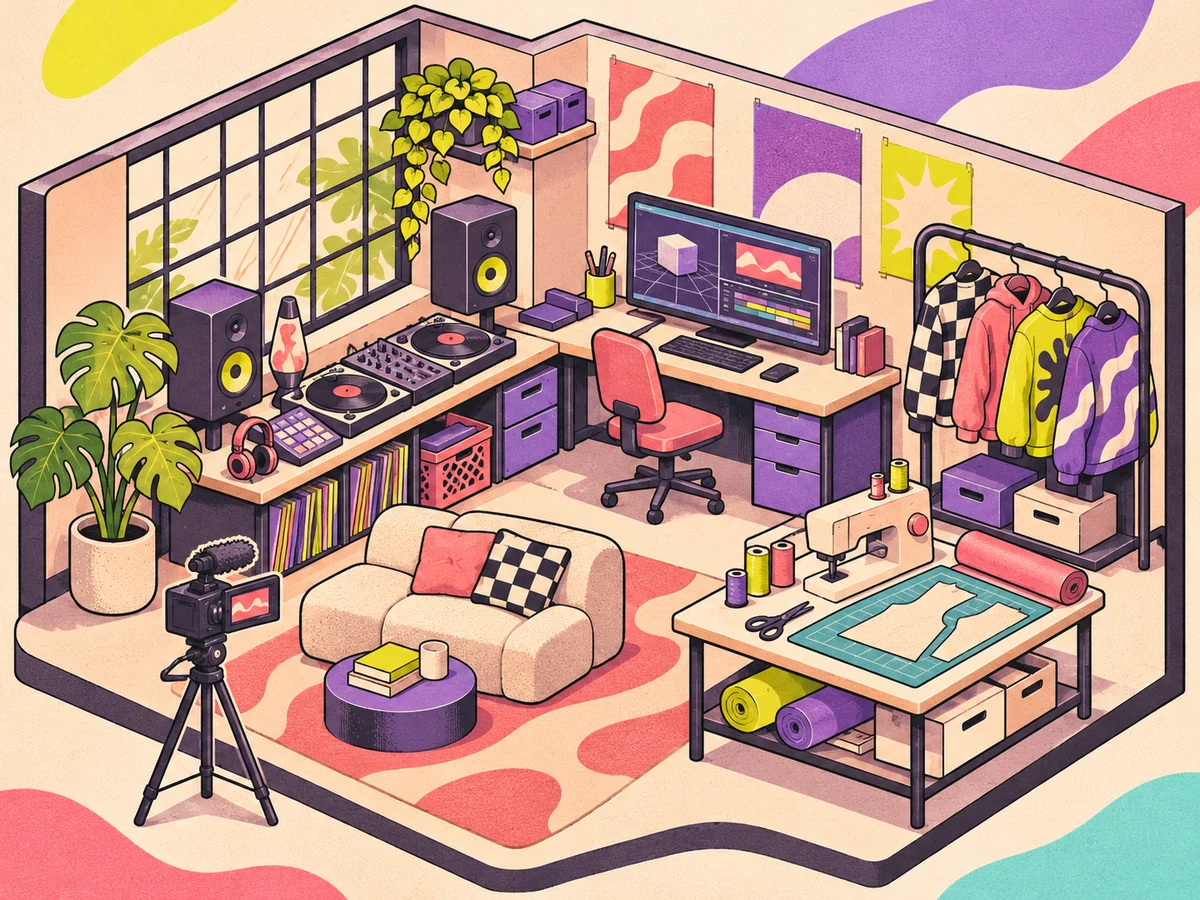
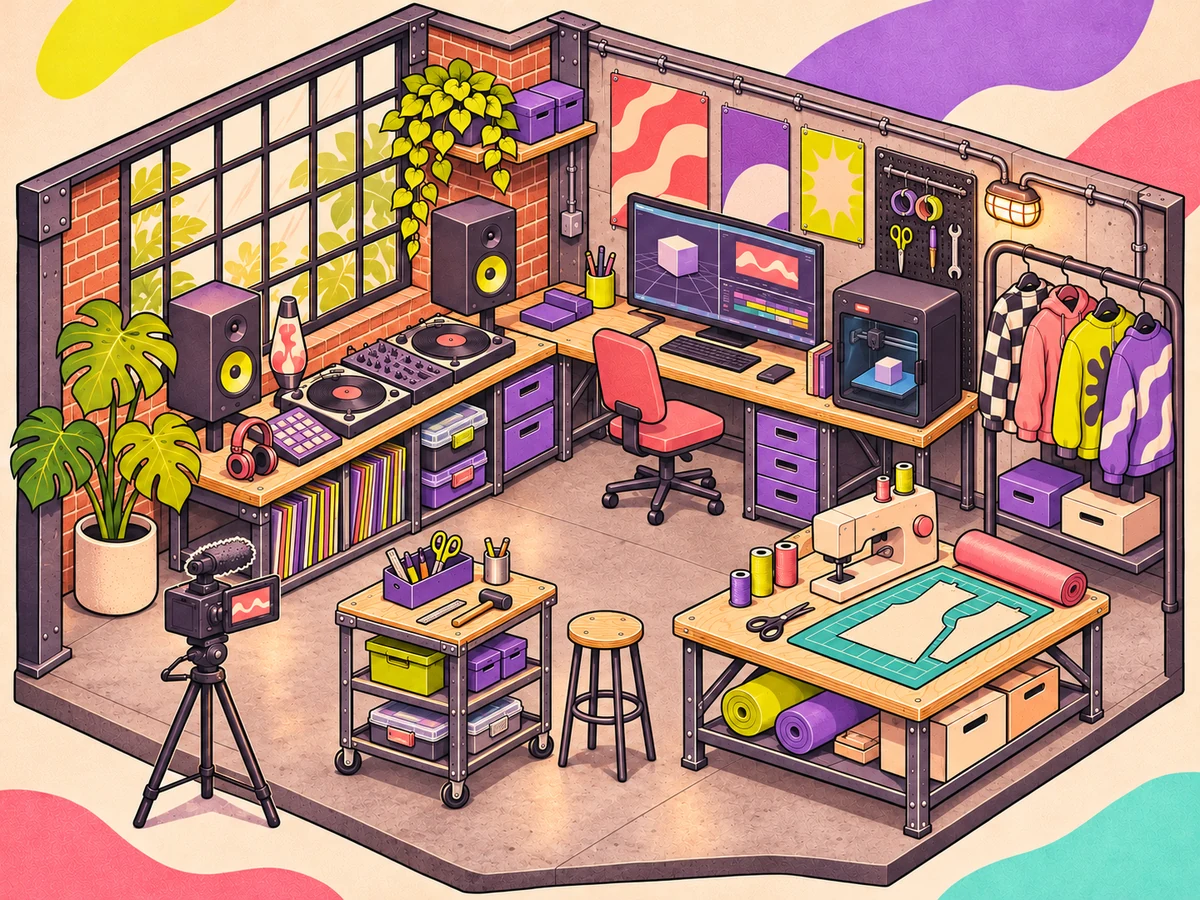
Give DANZ Passport a visible booklet and refresh the industrial studio cover

diff --git a/src/events/EventPassport.css b/src/events/EventPassport.css
@@ -1,23 +1,84 @@
-.passport-layout { display: grid; grid-template-columns: minmax(0, .85fr) minmax(0, 1.15fr); gap: 28px; align-items: start; }
-.passport-redeem { border: 1px solid var(--ink, #171717); padding: clamp(20px, 4vw, 34px); background: #eceee6; color: #171717; }
-.page-title.passport-title { font-size: clamp(54px, 8vw, 112px); }
-.passport-redeem h2, .passport-heading h2 { margin: 0 0 16px; font-size: clamp(24px, 3vw, 34px); letter-spacing: -.04em; }
-.passport-redeem p { line-height: 1.6; }
-.passport-redeem label { display: block; font-size: 12px; font-weight: 800; letter-spacing: .06em; margin: 24px 0 8px; }
-.passport-redeem input { width: 100%; min-width: 0; padding: 15px 12px; border: 1px solid #333; background: white; font: 700 16px monospace; text-transform: uppercase; border-radius: 0; }
-.passport-redeem .primary-btn { width: 100%; margin-top: 14px; white-space: normal; }
-.passport-message { padding: 12px; border-left: 3px solid #2f5742; background: white; font-size: 14px; overflow-wrap: anywhere; }
-.passport-heading { display: flex; flex-wrap: wrap; gap: 12px; align-items: start; justify-content: space-between; }
-.passport-heading .outline-btn { font-size: 11px; padding: 10px 12px; }
-.passport-stamps { display: grid; gap: 14px; list-style: none; padding: 0; margin: 0; }
-.passport-stamp { display: grid; grid-template-columns: 58px minmax(0, 1fr); gap: 16px; border: 1px solid #aaa; padding: 22px; }
-.passport-flower { font-size: 42px; align-self: start; }
-.passport-stamp h3 { margin: 0 0 10px; font-size: 22px; overflow-wrap: anywhere; }
-.passport-stamp p { font-size: 13px; line-height: 1.6; margin: 8px 0; }
-.passport-stamp .outline-btn { margin-top: 8px; }
-.passport-empty { border: 1px dashed #999; padding: 24px; line-height: 1.6; }
+.passport-page .page-lead { max-width: 700px; margin-bottom: 36px; }
+.page-title.passport-title { font-size: clamp(48px, 7vw, 100px); line-height: .94; }
+.passport-layout { display: grid; gap: 38px; max-width: 1160px; }
+.passport-book { display: grid; grid-template-columns: minmax(220px, .75fr) minmax(0, 2fr); align-items: stretch; padding: 8px; background: #202d28; border: 1px solid #557268; border-radius: 6px 20px 20px 6px; box-shadow: 0 22px 50px #0004; min-width: 0; }
+.passport-cover { position: relative; display: flex; flex-direction: column; align-items: center; justify-content: center; text-align: center; padding: 34px 25px; min-height: 470px; color: var(--acid); border: 1px solid #6a806149; border-radius: 3px 12px 12px 3px; background: repeating-linear-gradient(100deg, #fff0 0 2px, #ffffff02 2px 3px), #25392f; box-shadow: inset -12px 0 15px #0002, inset 3px 0 0 #ffffff08; }
+.passport-cover:before { content: ''; position: absolute; inset: 12px; border: 1px solid #c4d89140; border-radius: 2px 9px 9px 2px; pointer-events: none; }
+.passport-cover>img { width: min(100%, 205px); height: auto; }
+.passport-cover-edition { color: #d6dfb5; font-size: 8px; font-weight: 700; letter-spacing: .15em; margin-top: 14px; }
+.passport-cover-flower { width: 116px; height: 116px; margin: 38px 0 24px; filter: drop-shadow(0 2px 0 #0004); }
+.passport-cover h2 { font-size: clamp(23px, 2.3vw, 32px); letter-spacing: .07em; margin: 0; font-weight: 800; }
+.passport-cover p { font-size: 9px; line-height: 1.6; letter-spacing: .16em; color: #d6dfb5; margin: 18px 0 28px; }
+.passport-cover-count { display: flex; align-items: center; justify-content: center; gap: 13px; margin-top: auto; border-top: 1px solid #c4d89140; padding-top: 20px; width: 100%; font-size: 8px; font-weight: 800; letter-spacing: .12em; }
+.passport-cover-count strong { font-size: 30px; line-height: 1; font-variant-numeric: tabular-nums; }
+.passport-paper { display: flex; flex-direction: column; min-width: 0; padding: clamp(22px, 3.4vw, 44px); color: #283a35; background: linear-gradient(90deg, #d9d3c0, #f3f0e8 5%, #f3f0e8 96%, #e0dbcb); border-radius: 2px 12px 12px 2px; border-right: 4px double #c2baa7; }
+.passport-page-index { display: flex; align-items: center; justify-content: space-between; border-bottom: 1px solid #b4bbab; padding-bottom: 16px; margin-bottom: 24px; font-size: 9px; font-weight: 800; letter-spacing: .13em; }
+.passport-page-index svg { width: 24px; height: 24px; color: #668778; }
+.passport-heading { display: flex; flex-wrap: wrap; gap: 12px; align-items: center; justify-content: space-between; margin-bottom: 22px; }
+.passport-heading h2 { margin: 0; font-size: clamp(24px, 3vw, 34px); letter-spacing: -.045em; }
+.passport-paper .outline-btn { color: #283a35; border-color: #718177; font-size: 10px; padding: 11px 12px; letter-spacing: .04em; }
+.passport-paper .outline-btn:hover { background: #dde3d4; border-color: #283a35; }
+.passport-heading .outline-btn { font-size: 9px; }
+.passport-empty { margin: 0; padding: 24px 8px; line-height: 1.6; font-size: 14px; text-align: center; }
+.passport-empty p { max-width: 35ch; margin: 22px auto; }
+.passport-next-stamp { display: flex; width: 138px; height: 138px; margin: 0 auto; border: 2px dashed #7f978373; border-radius: 50%; flex-direction: column; align-items: center; justify-content: center; color: #738b7d; transform: rotate(-10deg); font-size: 10px; font-weight: 800; letter-spacing: .1em; line-height: 1.35; }
+.passport-next-stamp svg { width: 40px; height: 40px; margin-bottom: 8px; }
+.passport-stamps { display: grid; grid-template-columns: repeat(2, minmax(0, 1fr)); gap: 28px 22px; list-style: none; padding: 0; margin: 0; }
+.passport-stamp { --stamp-ink: #2f685e; min-width: 0; border-bottom: 1px solid #bbc2b4; padding-bottom: 22px; }
+.passport-stamp[data-ink='1'] { --stamp-ink: #7c4771; }
+.passport-stamp[data-ink='2'] { --stamp-ink: #9a4f3b; }
+.passport-ink-stamp { display: flex; flex-direction: column; align-items: center; justify-content: center; width: 114px; height: 114px; margin: 4px auto 22px; border: 3px double var(--stamp-ink); outline: 1px solid var(--stamp-ink); outline-offset: 3px; border-radius: 50%; color: var(--stamp-ink); transform: rotate(-9deg); opacity: .9; }
+.passport-stamp[data-ink='1'] .passport-ink-stamp { transform: rotate(8deg); }
+.passport-ink-stamp span { font: 800 8px monospace; letter-spacing: .06em; }
+.passport-ink-stamp svg { width: 48px; height: 48px; margin: 7px 0; }
+.passport-stamp h3 { margin: 0 0 10px; font-size: 19px; line-height: 1.15; letter-spacing: -.035em; color: var(--stamp-ink); overflow-wrap: anywhere; }
+.passport-stamp p { font-size: 11px; line-height: 1.6; margin: 8px 0; overflow-wrap: anywhere; }
+.passport-stamp .passport-confirmed { font-size: 8px; font-weight: 800; letter-spacing: .06em; color: var(--stamp-ink); }
+.passport-stamp .outline-btn { width: 100%; margin-top: 7px; }
+.passport-paper-foot { margin-top: auto; padding-top: 30px; display: flex; justify-content: space-between; flex-wrap: wrap; gap: 10px; color: #607468; font-size: 8px; font-weight: 700; letter-spacing: .07em; }
+.passport-redeem { padding: clamp(22px, 3vw, 34px); border: 1px solid var(--line); background: #191d1b; color: var(--white); }
+.passport-redeem-intro { display: flex; align-items: start; gap: 22px; max-width: 680px; }
+.passport-redeem-number { font-size: 54px; font-weight: 300; color: var(--acid); line-height: 1; }
+.passport-redeem h2 { margin: 0 0 12px; font-size: clamp(24px, 3vw, 32px); letter-spacing: -.04em; }
+.passport-redeem p { line-height: 1.6; color: #c9cbc1; font-size: 14px; }
+.passport-redeem form { max-width: 610px; }
+.passport-redeem label { display: block; font-size: 11px; font-weight: 800; letter-spacing: .08em; margin: 24px 0 10px; }
+.passport-redeem input { width: 100%; min-width: 0; padding: 15px 12px; border: 1px solid #606c64; background: #101411; color: var(--white); font: 700 16px monospace; text-transform: uppercase; border-radius: 0; }
+.passport-redeem .primary-btn { width: 100%; max-width: 610px; margin-top: 14px; white-space: normal; }
+.passport-redeem>.outline-btn { margin: 16px 12px 0 0; }
+.passport-message { padding: 14px 18px; border-left: 3px solid #6e9c7c; background: #e1eadb; color: #203b2a; font-size: 14px; overflow-wrap: anywhere; }
+.passport-redeem .passport-message { color: #203b2a; }
+.passport-link-status { max-width: 1160px; margin-bottom: 24px; }
 .pending-pass-banner { display: flex; align-items: center; justify-content: space-between; flex-wrap: wrap; gap: 12px; border-bottom: 1px solid #bbb; padding-block: 16px; font-size: 14px; }
 .pending-pass-banner .outline-btn { font-size: 11px; padding: 10px 14px; }
+@media (max-width: 760px) {
+  .passport-book { grid-template-columns: minmax(155px, .65fr) minmax(0, 1fr); }
+  .passport-cover { padding: 30px 18px; min-height: 420px; }
+  .passport-cover h2 { font-size: 20px; }
+  .passport-cover-flower { width: 80px; height: 80px; }
+  .passport-stamps { grid-template-columns: 1fr; }
+  .passport-cover-count { flex-direction: column; }
+}
+@media (max-width: 560px) {
+  .passport-book { grid-template-columns: minmax(0, 1fr); gap: 8px; padding: 6px; border-radius: 7px 16px 16px 7px; }
+  .passport-cover { display: grid; grid-template-columns: 1fr 86px; gap: 10px 16px; min-height: 218px; padding: 28px 26px; text-align: left; justify-items: start; }
+  .passport-cover>img { width: 178px; grid-column: 1; }
+  .passport-cover-edition { grid-column: 1; font-size: 6px; letter-spacing: .1em; margin-top: 0; }
+  .passport-cover-flower { grid-column: 2; grid-row: 1 / span 4; align-self: center; margin: 0; width: 80px; height: 80px; }
+  .passport-cover h2 { grid-column: 1; font-size: clamp(19px, 5vw, 25px); margin-top: 9px; }
+  .passport-cover p { display: none; }
+  .passport-cover-count { grid-column: 1 / -1; flex-direction: row; justify-content: start; padding-top: 14px; font-size: 7px; }
+  .passport-cover-count strong { font-size: 24px; }
+  .passport-paper { padding: 24px 22px; min-height: 340px; }
+  .passport-stamps { grid-template-columns: repeat(2, minmax(0, 1fr)); gap: 24px 16px; }
+  .passport-ink-stamp { width: 94px; height: 94px; }
+  .passport-ink-stamp span { font-size: 6px; }
+  .passport-ink-stamp svg { width: 40px; height: 40px; }
+  .passport-stamp h3 { font-size: 17px; }
+  .passport-stamp .outline-btn { font-size: 8px; padding: 11px 5px; }
+  .passport-redeem-intro { gap: 14px; }
+}
+@media (max-width: 360px) { .passport-cover { grid-template-columns: 1fr 54px; padding-inline: 22px; } .passport-cover-flower { width: 54px; height: 54px; } .passport-stamps { grid-template-columns: 1fr; } }
 .passport-receipt { max-width: 720px; margin: 0 auto; padding: clamp(20px, 4vw, 42px); border: 1px solid #4b4b4c; background: #19191a; }
 .passport-receipt-mark { display: block; color: var(--acid, #f3f0e8); width: 48px; height: 48px; margin: 25px 0 22px; }
 .passport-receipt h1 { margin: 0 0 18px; font-size: clamp(44px, 7vw, 82px); line-height: .96; letter-spacing: -.055em; }

diff --git a/src/events/EventPassport.tsx b/src/events/EventPassport.tsx
@@ -8,6 +8,7 @@ import './EventPassport.css'
 
 type Stamp = Database['public']['Functions']['danz_my_passport']['Returns'][number]
 type Props = {
+  arrival: boolean
   client: SupabaseClient<Database> | null
   userId: string | null
   authLoading: boolean
@@ -27,7 +28,7 @@ function date(value: string | null) {
   return Number.isNaN(parsed.valueOf()) ? '' : parsed.toLocaleDateString('es-ES', { dateStyle: 'medium' })
 }
 
-export default function EventPassport({ client, userId, authLoading, pendingPass, pendingCount, redemption, launchIssue, onPendingPass, onSignIn, onContinue, onGallery }: Props) {
+export default function EventPassport({ arrival, client, userId, authLoading, pendingPass, pendingCount, redemption, launchIssue, onPendingPass, onSignIn, onContinue, onGallery }: Props) {
   const [code, setCode] = useState(pendingPass ?? '')
   const [message, setMessage] = useState<string | null>(launchIssue)
   const busy = redemption.busy
@@ -95,7 +96,7 @@ export default function EventPassport({ client, userId, authLoading, pendingPass
   // A QR is saved at launch. Guests can leave immediately without waiting for
   // Auth, installing the PWA, or submitting the same code a second time.
   const savedForLater = !userId && Boolean(pendingPass) && !launchIssue && readPendingPass() === pendingPass
-  if (savedForLater) return <section className="passport-receipt" aria-labelledby="saved-pass-title">
+  if (arrival && savedForLater) return <section className="passport-receipt" aria-labelledby="saved-pass-title">
     <div className="eyebrow">DANZ COLLECTIVE / TU NOCHE</div>
     <svg className="passport-receipt-mark" viewBox="0 0 48 48" aria-hidden="true"><circle cx="24" cy="24" r="21" fill="none" stroke="currentColor" strokeWidth="2" /><path d="m14 24 7 7 14-15" fill="none" stroke="currentColor" strokeWidth="3" /></svg>
     <h1 id="saved-pass-title">PASE<br /><em>GUARDADO.</em></h1>
@@ -119,37 +120,50 @@ export default function EventPassport({ client, userId, authLoading, pendingPass
   </section>
 
   const items = !authLoading && passport.owner === userId ? passport.items : []
+  const stampsReady = Boolean(userId && !authLoading && passport.owner === userId && !passport.loading && !passport.error)
   return <>
     <div className="eyebrow">DANZ COLLECTIVE / TU PASAPORTE</div>
     <h1 className="page-title passport-title">CADA NOCHE,<br /><em>UN SELLO.</em></h1>
-    <p className="page-lead">Escanea el QR del evento con la cámara de tu móvil o introduce su código. Tu sello se guarda en tu cuenta y abre la galería de esa noche.</p>
+    <p className="page-lead">Tu colección de noches. Cada sello guarda una fiesta y la llave para volver a sus fotos.</p>
+    {redemption.message && <p className="passport-message passport-link-status" role="status">{redemption.message}</p>}
     <div className="passport-layout">
+      <div className="passport-book" aria-label="Pasaporte DANZ: portada y páginas de sellos">
+        <aside className="passport-cover" aria-label="Portada del pasaporte">
+          <img src="/brand/danz-collective-wordmark.png" alt="Danz Collective" width="225" height="32" />
+          <span className="passport-cover-edition">MUSIC · PEOPLE · CULTURE</span>
+          <DanzFlower className="passport-cover-flower" />
+          <h2>PASAPORTE</h2>
+          <p>NOCHES QUE<br />SE QUEDAN CONTIGO.</p>
+          <div className="passport-cover-count">{stampsReady ? <><strong>{String(items.length).padStart(2, '0')}</strong><span>{items.length === 1 ? 'NOCHE GUARDADA' : 'NOCHES GUARDADAS'}</span></> : <span>TU HISTORIA EN DANZ</span>}</div>
+        </aside>
+        <section className="passport-paper" aria-labelledby="passport-title">
+          <div className="passport-page-index"><span>REGISTRO DE NOCHES</span><DanzFlower /></div>
+          <div className="passport-heading"><h2 id="passport-title">Mis sellos {stampsReady ? `(${items.length})` : ''}</h2>
+            {userId && <button type="button" className="outline-btn" onClick={() => setRetry(value => value + 1)} disabled={authLoading || passport.loading}>ACTUALIZAR SELLOS</button>}
+          </div>
+          {!userId && <div className="passport-empty"><span className="passport-next-stamp" aria-hidden="true"><DanzFlower /><span>TU PRÓXIMA<br />NOCHE</span></span><p>Inicia sesión para ver los sellos que ya has guardado.</p>{!authLoading && client && <button className="outline-btn" type="button" onClick={requestSignIn}>ABRIR MI PASAPORTE</button>}</div>}
+          {userId && (authLoading || passport.loading) && <p role="status">Cargando tu pasaporte…</p>}
+          {userId && !authLoading && passport.error && <p className="passport-empty" role="status">No hemos podido cargar tus sellos. Pulsa «Actualizar sellos» para volver a intentarlo.</p>}
+          {stampsReady && items.length === 0 && <div className="passport-empty"><span className="passport-next-stamp" aria-hidden="true"><DanzFlower /><span>TU PRÓXIMA<br />NOCHE</span></span><p>Tu primera noche empieza aquí. Añade el código de un evento para estrenar tu pasaporte.</p></div>}
+          <ul className="passport-stamps">{items.map((stamp, index) => <li key={stamp.event_id} className="passport-stamp" data-ink={index % 3}>
+            <div className="passport-ink-stamp" aria-hidden="true"><span>DANZ COLLECTIVE</span><DanzFlower /><span>ASISTENCIA</span></div>
+            <div className="passport-stamp-copy"><h3>{stamp.title}</h3><p>{date(stamp.starts_at) || 'Evento DANZ'} · Sello del {date(stamp.granted_at)}</p><p className="passport-confirmed">ASISTENCIA GUARDADA</p>
+              {['published', 'archived'].includes(stamp.event_status) ? <button type="button" className="outline-btn" onClick={() => onGallery(stamp.event_id)}>ABRIR GALERÍA ↗</button> : <p>El sello se conserva. La galería no está publicada ahora.</p>}
+            </div>
+          </li>)}</ul>
+          <div className="passport-paper-foot"><span>TUS NOCHES. TUS RECUERDOS.</span><span aria-hidden="true">DANZ / PASSPORT</span></div>
+        </section>
+      </div>
       <section className="passport-redeem" aria-labelledby="redeem-title">
-        <h2 id="redeem-title">Guarda tu noche.</h2>
-        <p>{userId ? 'El sello se añadirá a la cuenta con la que has iniciado sesión.' : 'Puedes guardar el pase ahora y añadirlo a tu cuenta después.'}</p>
+        <div className="passport-redeem-intro"><span className="passport-redeem-number" aria-hidden="true">+</span><div><h2 id="redeem-title">Guarda tu noche.</h2>
+        <p>Escanea el QR del evento con la cámara de tu móvil o introduce su código. {userId ? 'El sello se añadirá a la cuenta con la que has iniciado sesión.' : 'Puedes guardar el pase ahora y añadirlo a tu cuenta después.'}</p></div></div>
         {codeForm}
         {!client && <p role="status">El canje estará disponible cuando se configure la conexión de las cuentas.</p>}
         {authLoading && <p role="status">Comprobando tu sesión…</p>}
         {!userId && !authLoading && client && <button type="button" className="primary-btn" onClick={requestSignIn}>INICIAR SESIÓN</button>}
         {message && <p className="passport-message" role="status">{message}</p>}
-        {redemption.message && <p className="passport-message" role="status">{redemption.message}</p>}
         {userId && pendingPass && !busy && <button type="button" className="outline-btn" onClick={redemption.retry}>REINTENTAR PASES</button>}
         {pendingPass && !busy && <button type="button" className="outline-btn" onClick={discard}>DESCARTAR PASE PENDIENTE</button>}
-      </section>
-      <section aria-labelledby="passport-title">
-        <div className="passport-heading"><h2 id="passport-title">Mis sellos {userId && !passport.loading && !passport.error ? `(${items.length})` : ''}</h2>
-          {userId && <button type="button" className="outline-btn" onClick={() => setRetry(value => value + 1)} disabled={authLoading || passport.loading}>ACTUALIZAR SELLOS</button>}
-        </div>
-        {!userId && <p className="passport-empty">Inicia sesión para ver los sellos que ya has guardado.</p>}
-        {userId && (authLoading || passport.loading) && <p role="status">Cargando tu pasaporte…</p>}
-        {userId && !authLoading && passport.error && <p className="passport-empty" role="status">No hemos podido cargar tus sellos. Pulsa «Actualizar sellos» para volver a intentarlo.</p>}
-        {userId && !authLoading && !passport.loading && !passport.error && items.length === 0 && <p className="passport-empty">Tu primera noche empieza aquí. Añade el código de un evento para estrenar tu pasaporte.</p>}
-        <ul className="passport-stamps">{items.map(stamp => <li key={stamp.event_id} className="passport-stamp">
-          <span className="passport-flower" aria-hidden="true"><DanzFlower /></span>
-          <div><h3>{stamp.title}</h3><p>{date(stamp.starts_at) || 'Evento DANZ'} · Sello del {date(stamp.granted_at)}</p><p>ASISTENCIA GUARDADA</p>
-            {['published', 'archived'].includes(stamp.event_status) ? <button type="button" className="outline-btn" onClick={() => onGallery(stamp.event_id)}>ABRIR GALERÍA ↗</button> : <p>El sello se conserva. La galería no está publicada ahora.</p>}
-          </div>
-        </li>)}</ul>
       </section>
     </div>
   </>

diff --git a/src/App.tsx b/src/App.tsx
@@ -21,9 +21,10 @@ import DanzFlower from './content/DanzFlower'
 
 const collective = parseCollective(content)
 
-type Page = 'inicio' | 'fotos' | 'arcade' | 'danzers' | 'danzin' | 'danzflor' | 'cuenta' | 'admin'
+type Page = 'inicio' | 'pasaporte' | 'fotos' | 'arcade' | 'danzers' | 'danzin' | 'danzflor' | 'cuenta' | 'admin'
 const pages: { id: Page; label: string }[] = [
   { id: 'inicio', label: 'Inicio' },
+  { id: 'pasaporte', label: 'Pasaporte' },
   { id: 'fotos', label: 'Fotos' },
   { id: 'arcade', label: 'Arcade' },
   { id: 'danzers', label: 'DANZERS' },
@@ -44,7 +45,7 @@ export default function App() {
   const admin = useAdminAccess(auth.client, auth.user?.id ?? null, auth.loading)
   const [page, setPage] = useState<Page>(() => {
     const params = new URLSearchParams(window.location.search)
-    return auth.error || emailCallbackPresent || params.has('code') || params.has('error') || /(?:access_token|error)=/.test(window.location.hash) ? 'cuenta' : params.get('panel') === 'admin' ? 'admin' : params.get('seccion') === 'cuenta' ? 'cuenta' : launchPass.code || launchPass.invalid ? 'danzers' : params.get('seccion') === 'musica' ? 'danzin' : 'inicio'
+    return auth.error || emailCallbackPresent || params.has('code') || params.has('error') || /(?:access_token|error)=/.test(window.location.hash) ? 'cuenta' : params.get('panel') === 'admin' ? 'admin' : params.get('seccion') === 'cuenta' ? 'cuenta' : params.get('seccion') === 'pasaporte' && !launchPass.invalid ? 'pasaporte' : launchPass.code || launchPass.invalid ? 'danzers' : params.get('seccion') === 'musica' ? 'danzin' : 'inicio'
   })
   const [pendingPasses, setPendingPasses] = useState(() => {
     const saved = readPendingPasses()
@@ -161,6 +162,7 @@ export default function App() {
     if (page === 'arcade' && destination !== 'arcade') dispatch({ type: 'pause' })
     const url = new URL(window.location.href)
     if (destination === 'danzin') url.searchParams.set('seccion', 'musica')
+    else if (destination === 'pasaporte') url.searchParams.set('seccion', 'pasaporte')
     else if (destination === 'cuenta') url.searchParams.set('seccion', 'cuenta')
     else url.searchParams.delete('seccion')
     try { window.history.replaceState(window.history.state, '', url) } catch { /* Navigation still works in a restricted browser view. */ }
@@ -176,7 +178,7 @@ export default function App() {
         </button>
         <nav className="desktop-nav" aria-label="Navegación principal">
           {pages.map((item) => (
-            <button key={item.id} onClick={() => go(item.id)} className={page === item.id ? 'active' : ''}>
+            <button key={item.id} onClick={() => go(item.id)} className={page === item.id ? 'active' : ''} aria-current={page === item.id ? 'page' : undefined}>
               {item.label}
             </button>
           ))}
@@ -188,7 +190,7 @@ export default function App() {
       <PwaControls quiet={quickArrival || page === 'arcade'} />
 
       <main>
-        {pendingPass && page !== 'danzers' && page !== 'arcade' && <div className="content pending-pass-banner"><span>{pendingPasses.length === 1 ? 'Tienes un pase de evento guardado.' : `Tienes ${pendingPasses.length} pases de evento guardados.`}</span><button className="outline-btn" onClick={() => go('danzers')}>ABRIR MI PASE ↗</button></div>}
+        {pendingPass && page !== 'danzers' && page !== 'pasaporte' && page !== 'arcade' && <div className="content pending-pass-banner"><span>{pendingPasses.length === 1 ? 'Tienes un pase de evento guardado.' : `Tienes ${pendingPasses.length} pases de evento guardados.`}</span><button className="outline-btn" onClick={() => go('danzers')}>ABRIR MI PASE ↗</button></div>}
         {page === 'inicio' && (
           <>
             <section className="intro content">
@@ -213,6 +215,14 @@ export default function App() {
                   <span className="snake-stamp">PRESS PLAY_</span>
                 </div>
                 <span className="feature-bottom"><strong>ARCADE</strong><small>Juega a DANZ Snake.</small></span>
+              </button>
+            </section>
+
+            <section className="content passport-home-section" aria-label="Tu pasaporte DANZ">
+              <button className="passport-home-link" onClick={() => go('pasaporte')}>
+                <span className="passport-mini-book" aria-hidden="true"><DanzFlower /><span>PASAPORTE</span></span>
+                <span className="passport-home-copy"><small>TU COLECCIÓN DE NOCHES</small><strong>Un pasaporte.<br />Todas tus fiestas.</strong><span>Guarda tus sellos y vuelve a sus galerías.</span></span>
+                <Arrow />
               </button>
             </section>
 
@@ -288,16 +298,16 @@ export default function App() {
               <p className="game-local-note">{game.mode === 'maze' ? 'Recoge cinco objetivos para avanzar. En Circuito, sigue hasta donde llegues.' : 'La velocidad sube cada cinco objetivos.'} Cambiar de modo o recorrido inicia otra partida.<br />Récord de {game.mode === 'maze' ? 'laberinto' : 'clásico'} en este navegador · Puntos todavía sin premios.</p>
             </div>
             <article className="arcade-coming-soon" aria-label="DANZ Idle Studio, próximamente">
-              <div className="idle-cover"><img src="/arcade/idle-studio-preview.webp" alt="Ilustración provisional de un estudio con música, ropa, cámara y diseño" width="1200" height="900" loading="lazy" /><span>GAME 002 / PRÓXIMAMENTE</span></div>
+              <div className="idle-cover"><img src="/arcade/idle-studio-preview.webp" alt="Ilustración provisional de un taller industrial creativo con música, ropa, cámara y diseño" width="1200" height="900" loading="lazy" /><span>GAME 002 / PRÓXIMAMENTE</span></div>
               <div className="idle-copy"><span className="idle-status"><DanzFlower /> EN EL ESTUDIO</span><h2>DANZ<br /><em>IDLE STUDIO.</em></h2><p>Un puesto, mil ideas. Música, moda, vídeo y diseño: el estudio del colectivo, a tu ritmo.</p><span className="idle-coming">PRÓXIMAMENTE <span aria-hidden="true">↗</span></span><small>Nombre y carátula provisionales.</small></div>
             </article>
           </section>
         )}
 
-        {page === 'danzers' && (
-          <section className="content inner-page">
+        {(page === 'pasaporte' || page === 'danzers') && (
+          <section className="content inner-page passport-page">
             <button className="back" onClick={() => go('inicio')}>← VOLVER AL INICIO</button>
-            <EventPassport key={auth.user?.id ?? 'guest'} client={auth.client} userId={auth.user?.id ?? null} authLoading={auth.loading} pendingPass={pendingPass} pendingCount={pendingPasses.length} redemption={redemption} launchIssue={passIssue} onPendingPass={syncPasses} onSignIn={() => go('cuenta')} onContinue={() => go('inicio')} onGallery={eventId => { setGalleryEvent(eventId); setPhotoSource('private'); go('fotos') }} />
+            <EventPassport key={auth.user?.id ?? 'guest'} arrival={page === 'danzers'} client={auth.client} userId={auth.user?.id ?? null} authLoading={auth.loading} pendingPass={pendingPass} pendingCount={pendingPasses.length} redemption={redemption} launchIssue={passIssue} onPendingPass={syncPasses} onSignIn={() => go('cuenta')} onContinue={() => go('inicio')} onGallery={eventId => { setGalleryEvent(eventId); setPhotoSource('private'); go('fotos') }} />
           </section>
         )}
 

diff --git a/tests/e2e/event-passport.spec.ts b/tests/e2e/event-passport.spec.ts
@@ -11,6 +11,50 @@ const openPassport = async (page: import('@playwright/test').Page) => {
   await page.getByRole('button', { name: 'DANZERS', exact: true }).click()
 }
 
+test('the passport has a primary tab, a reloadable link and only the account stamps', async ({ page }) => {
+  await installMockSession(page)
+  await page.route(`${supabaseHost}/rest/v1/rpc/danz_my_passport`, route => route.fulfill({ json: [stamp(EA, 'Fiesta de prueba'), stamp(EB, 'Recuerdo archivado', 'archived')] }))
+  await page.goto('/')
+  const navigation = page.getByRole('navigation', { name: 'Navegación principal' })
+  await navigation.getByRole('button', { name: 'Pasaporte', exact: true }).click()
+  await expect(page).toHaveURL(/seccion=pasaporte/)
+  await expect(navigation.getByRole('button', { name: 'Pasaporte', exact: true })).toHaveAttribute('aria-current', 'page')
+  await expect(page.getByRole('complementary', { name: 'Portada del pasaporte' })).toBeVisible()
+  await expect(page.getByRole('heading', { name: 'Mis sellos (2)', exact: true })).toBeVisible()
+  await expect(page.locator('.passport-stamp')).toHaveCount(2)
+  await page.reload()
+  await expect(page.getByRole('heading', { name: 'Mis sellos (2)', exact: true })).toBeVisible()
+  await expect(page.getByRole('heading', { name: 'Recuerdo archivado', exact: true })).toBeVisible()
+  expect(await page.evaluate(() => document.documentElement.scrollWidth <= window.innerWidth)).toBe(true)
+  await page.getByRole('button', { name: 'Inicio', exact: true }).click()
+  await page.getByRole('button', { name: /Un pasaporte\. Todas tus fiestas\./ }).click()
+  await expect(page.getByRole('heading', { name: 'Mis sellos (2)', exact: true })).toBeVisible()
+})
+
+test('an empty or signed-out booklet never invents attendance and keeps sign-in accessible', async ({ page }) => {
+  await mockSupabase(page)
+  await page.goto('/?seccion=pasaporte')
+  await expect(page.getByRole('complementary', { name: 'Portada del pasaporte' })).toBeVisible()
+  await expect(page.locator('.passport-stamp')).toHaveCount(0)
+  await expect(page.getByText('Inicia sesión para ver los sellos que ya has guardado.', { exact: true })).toBeVisible()
+  await page.getByRole('button', { name: 'ABRIR MI PASAPORTE', exact: true }).click()
+  await expect(page.getByLabel('Correo electrónico', { exact: true })).toBeVisible()
+})
+
+test('opening the booklet keeps an unlinked guest QR and survives reload', async ({ page }) => {
+  await mockSupabase(page)
+  await page.goto(`/#pase=${CODE}`)
+  await expect(page.getByRole('heading', { name: /PASE\s*GUARDADO\./ })).toBeVisible()
+  await page.getByRole('button', { name: 'SEGUIR CON MI NOCHE', exact: true }).click()
+  await page.getByRole('button', { name: 'Pasaporte', exact: true }).click()
+  await expect(page.getByRole('complementary', { name: 'Portada del pasaporte' })).toBeVisible()
+  await expect(page.getByLabel('CÓDIGO DEL EVENTO', { exact: true })).toHaveValue(CODE)
+  await page.reload()
+  await expect(page.getByRole('complementary', { name: 'Portada del pasaporte' })).toBeVisible()
+  expect(await page.evaluate(key => localStorage.getItem(key), PENDING)).toBe(CODE)
+  await expect(page.locator('.passport-stamp')).toHaveCount(0)
+})
+
 test('a guest QR is saved without a form, survives reload and can be linked later', async ({ page }) => {
   await mockSupabase(page)
   const redemptions: string[] = []

diff --git a/src/App.css b/src/App.css
@@ -141,3 +141,18 @@
 .idle-coming{display:flex;gap:50px;align-items:center;border:1px solid #c67f9c;color:var(--rose);padding:13px 16px;font-size:10px;font-weight:850;letter-spacing:.09em}
 .idle-copy small{font-size:10px;color:#b4a8b5;margin-top:14px}
 @media(max-width:700px){.brand-flower{width:30px;height:30px}.brand-wordmark{width:clamp(145px,45vw,205px)}.wordmark{gap:10px}.arcade-coming-soon{grid-template-columns:1fr;margin-top:35px}.idle-copy{padding:28px}.idle-copy h2{font-size:49px}.idle-coming{gap:60px}.artist-photo-label{font-size:8px}}
+
+/* The passport has a first-class entrance, alongside photos and Arcade. */
+.desktop-nav { margin-left: 0; gap: clamp(10px, 1.35vw, 22px); }
+.passport-home-section { padding-top: 28px; }
+.passport-home-link { width: 100%; display: flex; align-items: center; gap: clamp(20px, 4vw, 54px); text-align: left; border: 1px solid #596e59; padding: clamp(22px, 4vw, 40px); background: linear-gradient(120deg, #202d26, #171c1a 70%); color: var(--white); cursor: pointer; }
+.passport-home-link:hover { border-color: var(--acid); }
+.passport-mini-book { width: 98px; height: 130px; flex: none; border: 3px double #a4bd7a; border-radius: 2px 9px 9px 2px; background: #2d4437; color: var(--acid); display: flex; align-items: center; justify-content: center; flex-direction: column; gap: 15px; transform: rotate(-8deg); box-shadow: 5px 5px 0 #f3f0e870, 8px 8px 0 #101511; }
+.passport-mini-book svg { width: 42px; height: 42px; }
+.passport-mini-book>span { font-size: 8px; font-weight: 800; letter-spacing: .07em; }
+.passport-home-copy { display: flex; flex-direction: column; gap: 12px; }
+.passport-home-copy small { color: var(--acid); font-size: 9px; font-weight: 800; letter-spacing: .14em; }
+.passport-home-copy strong { font-size: clamp(25px, 3vw, 42px); line-height: 1.03; letter-spacing: -.04em; }
+.passport-home-copy>span { color: #b3beb0; font-size: 13px; line-height: 1.5; }
+.passport-home-link>.arrow { margin-left: auto; color: var(--acid); flex: none; }
+@media (max-width: 700px) { .desktop-nav { gap: 20px; } .passport-home-link { gap: 22px; padding: 24px 20px; } .passport-mini-book { width: 68px; height: 98px; gap: 10px; } .passport-mini-book svg { width: 33px; height: 33px; } .passport-mini-book>span { font-size: 6px; } .passport-home-copy small { font-size: 7px; } .passport-home-copy>span { font-size: 11px; } .passport-home-copy strong { font-size: 24px; } .passport-home-link>.arrow { width: 20px; } }

diff --git a/docs/DANZ_IDLE_STUDIO.md b/docs/DANZ_IDLE_STUDIO.md
@@ -1,0 +1,15 @@
+# DANZ Idle Studio — dirección confirmada
+
+Carátula y nombre provisionales. El juego continúa marcado «Próximamente»; no se ha implementado todavía.
+
+## Progresión acordada con el usuario
+
+El vídeo privado del estudio real aportado el 11 de noviembre sirve sobre todo como referencia para el espacio del juego, no como obligación de reproducirlo en la carátula. No publicar el vídeo ni sus fotogramas.
+
+- Cada puesto tiene niveles propios y mejoras de herramientas/equipos.
+- El progreso permite desbloquear nuevos puestos del estudio.
+- Mantener la mezcla de música, moda, vídeo, impresión 3D y diseño del colectivo.
+- Referencias observadas: mesas de trabajo con bases de corte verdes, paneles de herramientas, estanterías metálicas, cajas de materiales y una impresora 3D cerrada.
+- El usuario acepta que los juegos requieran conexión si eso mejora la experiencia. No se ha cambiado el funcionamiento actual de Snake.
+
+La paleta y la tipografía oficiales están pendientes de que el usuario las facilite. Conservar la flor y el wordmark DanzCollective®.
